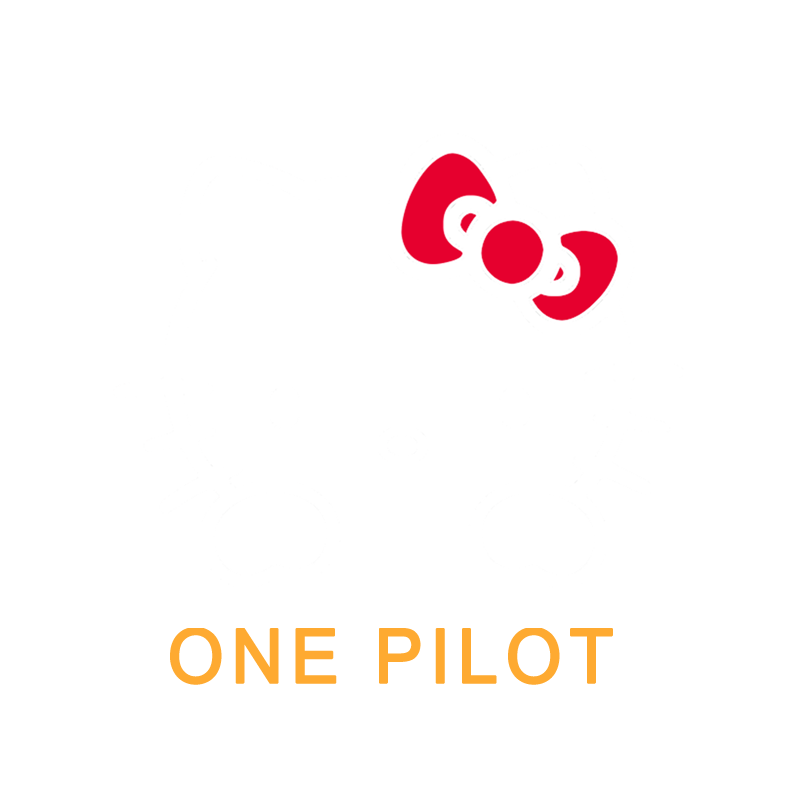
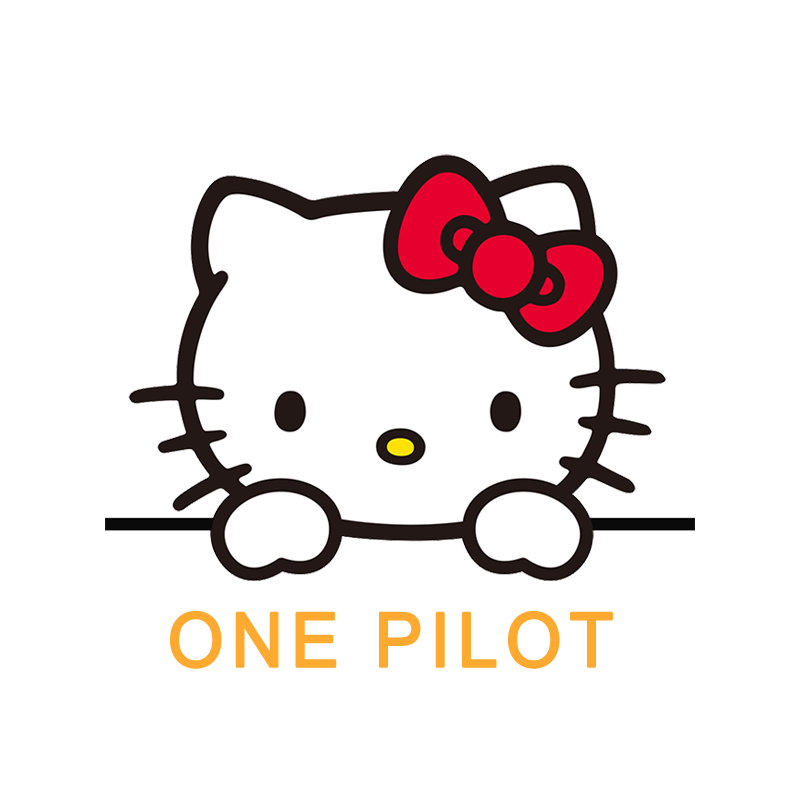
修改图标，修复红绿灯代码测试

diff --git a/selfdrive/ui/carrot.cc b/selfdrive/ui/carrot.cc
@@ -731,7 +731,7 @@ public:
         int x = path_x;
         int y = path_y - 135;
         char str[128];
-        int disp_y = y + 195;// 175;
+        int disp_y = y + 105;// 向上移动90px;
         bool draw_dist = false;
         float disp_size = 90;
         if (softHoldActive || brakeHoldActive || carrotCruise) {
@@ -1196,7 +1196,7 @@ protected:
             local->tm_min += remaining_minutes;
             mktime(local);
             bool is_kor = s->language == "main_ko";
-            int total_minutes = (nGoPosTime + 59) / 60;
+            int total_minutes = (nGoPosTime + 30) / 60; // 行程时间四舍五入
             sprintf(str, "%s: %d%s(%02d:%02d到)", (is_kor)?"到达":"行程", total_minutes, (is_kor)?"分钟":"分钟", local->tm_hour, local->tm_min);
             ui_draw_text(s, tbt_x + 190, tbt_y + 80, str, 50, COLOR_WHITE_ALPHA(230), BOLD);
             sprintf(str, "剩余:%.1f%s", nGoPosDist / 1000. * ((s->scene.is_metric)?1:KM_TO_MILE), (s->scene.is_metric) ? "公里" : "英里");
@@ -2298,6 +2298,27 @@ public:
     int   memoryUsage = 0;
     float freeSpace = 0.0f;
     float voltage = 0.0f;
+
+    void drawTrafficLight(UIState* s) {
+        nvgTextAlign(s->vg, NVG_ALIGN_CENTER | NVG_ALIGN_BOTTOM);
+        int x = 240;
+        int y = 20;
+        int icon_red = icon_size;
+        int icon_green = icon_size;
+        bool red_light = trafficState == 1;
+        bool green_light = trafficState == 2;
+        if(trafficState_carrot == 1) {
+			red_light = true;
+            icon_red *= 1.5;
+		}
+		else if(trafficState_carrot == 2) {
+			green_light = true;
+            icon_green *= 1.5;
+		}
+        if (red_light) ui_draw_image(s, { x, y, icon_red, icon_red }, "ic_traffic_red", 1.0f);
+        else if (green_light) ui_draw_image(s, { x, y, icon_green, icon_green }, "ic_traffic_green", 1.0f);
+    }
+
     void drawHud(UIState* s) {
         int show_device_state = params.getInt("ShowDeviceState");
         blink_timer = (blink_timer + 1) % 16;
@@ -2586,45 +2607,6 @@ public:
         ui_draw_text(s, box_x + box_width / 2, box_y + 125, cruise_speed, 90, COLOR_WHITE_ALPHA(220), BOLD, 0.0f, 0.0f);
     }
 
-    void drawTrafficLight(UIState* s) {
-      nvgTextAlign(s->vg, NVG_ALIGN_CENTER | NVG_ALIGN_BOTTOM);
-
-      // 获取交通灯状态
-      SubMaster& sm = *(s->sm);
-
-      const auto carrot_man = sm["carrotMan"].getCarrotMan();
-      const auto lp = sm["longitudinalPlan"].getLongitudinalPlan();
-
-      int trafficStatecarrot = carrot_man.getTrafficState();
-      int currentTrafficState = lp.getTrafficState();
-
-      // 设置显示位置
-      int x = 240;
-      int y = 20;
-      int traffic_icon_size = 256;
-
-      // 确定交通灯状态
-      bool red_light = currentTrafficState == 1;
-      bool green_light = currentTrafficState == 2;
-
-      if(trafficStatecarrot == 1) {
-          red_light = true;
-          traffic_icon_size *= 1.5; // 与drawHud中的*1.5状态一致
-      }
-      else if(trafficStatecarrot == 2) {
-          green_light = true;
-          traffic_icon_size *= 1.5; // 与drawHud中的*1.5状态一致
-      }
-
-      // 绘制交通灯
-      if (red_light) {
-          ui_draw_image(s, { x, y, traffic_icon_size, traffic_icon_size }, "ic_traffic_red", 1.0f);
-      }
-      else if (green_light) {
-          ui_draw_image(s, { x, y, traffic_icon_size, traffic_icon_size }, "ic_traffic_green", 1.0f);
-      }
-    }
-
     void drawConnInfo(const UIState* s) {
         int y = 10;
         int x = 30;
@@ -2901,8 +2883,6 @@ void ui_draw(UIState *s, ModelRenderer* model_renderer, int w, int h) {
   bool draw_carrot = drawCarrot.updateState(s);
   drawCarrot.drawNaviPath(s);
 
-  drawCarrot.drawTrafficLight(s);
-
   static float pathDrawSeq = 0.0;
   int show_lane_info = params.getInt("ShowLaneInfo");
   if(show_lane_info >= 0) drawPath.draw(s, pathDrawSeq);
@@ -2920,6 +2900,8 @@ void ui_draw(UIState *s, ModelRenderer* model_renderer, int w, int h) {
 
   if(draw_carrot)
     drawCarrot.drawRadarInfo(s);
+
+  drawCarrot.drawTrafficLight(s);
 
   //drawCarrot.drawHud(s);
 
